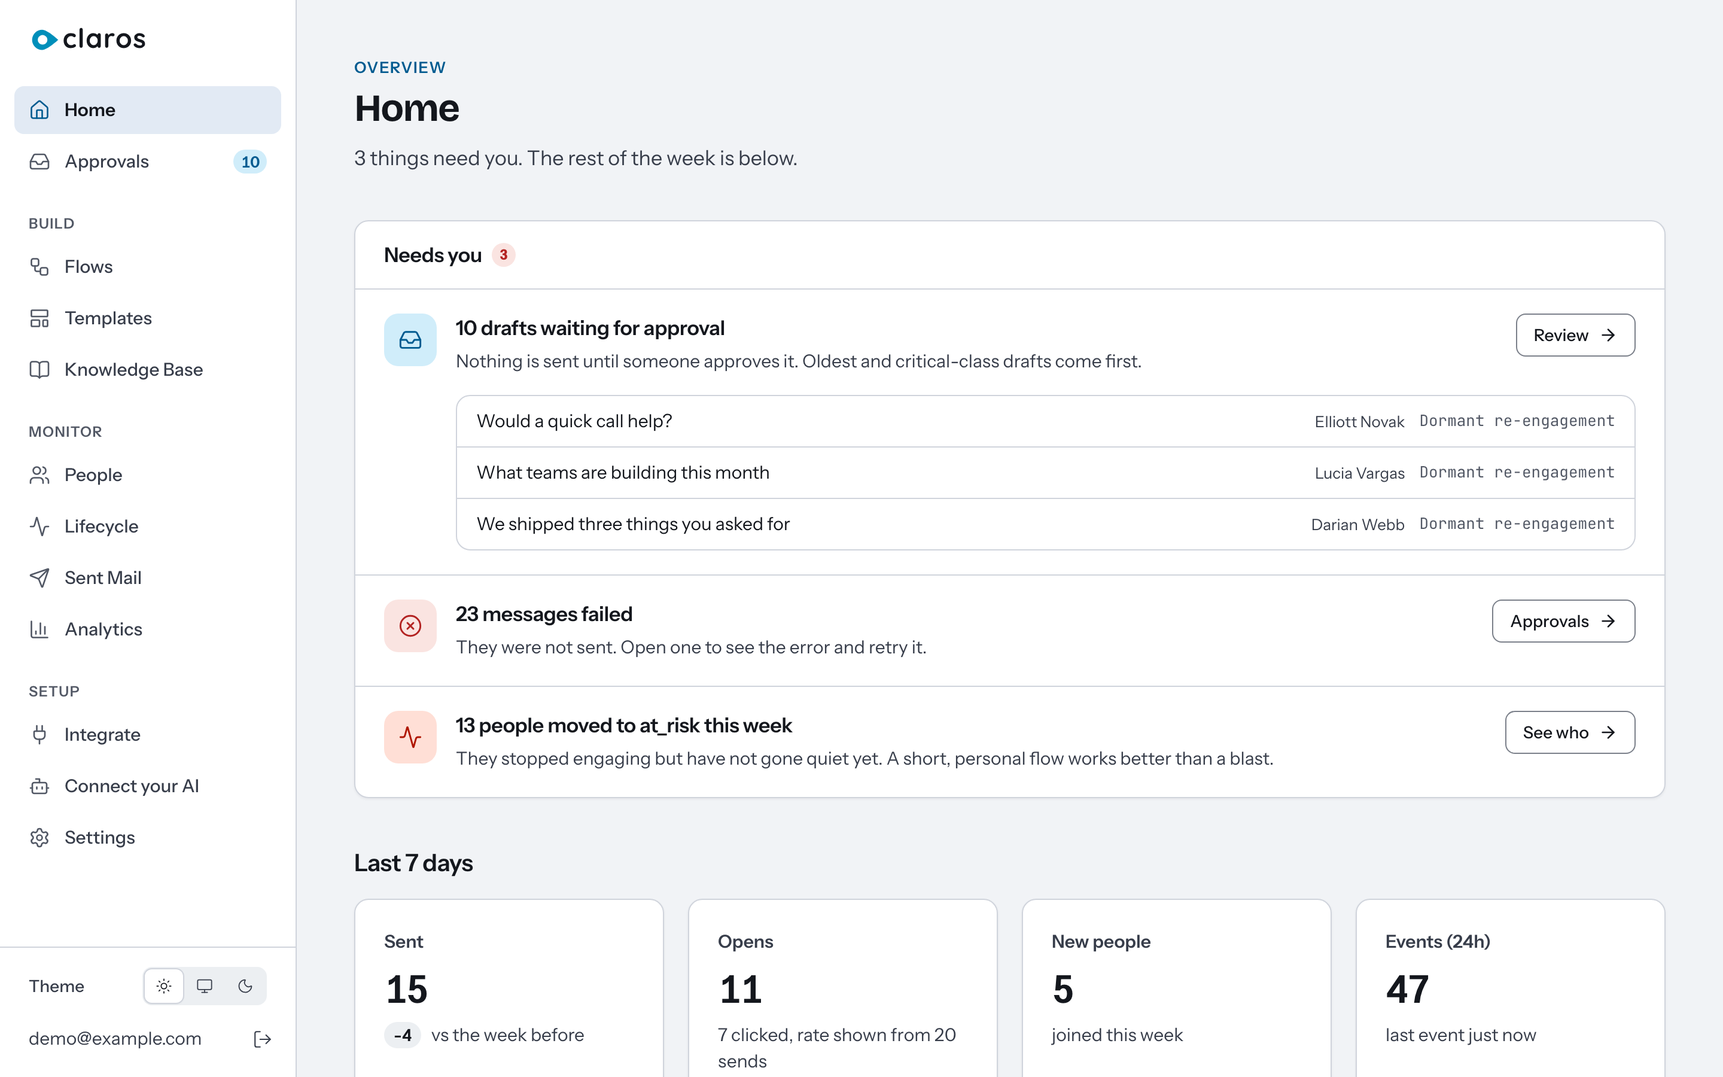
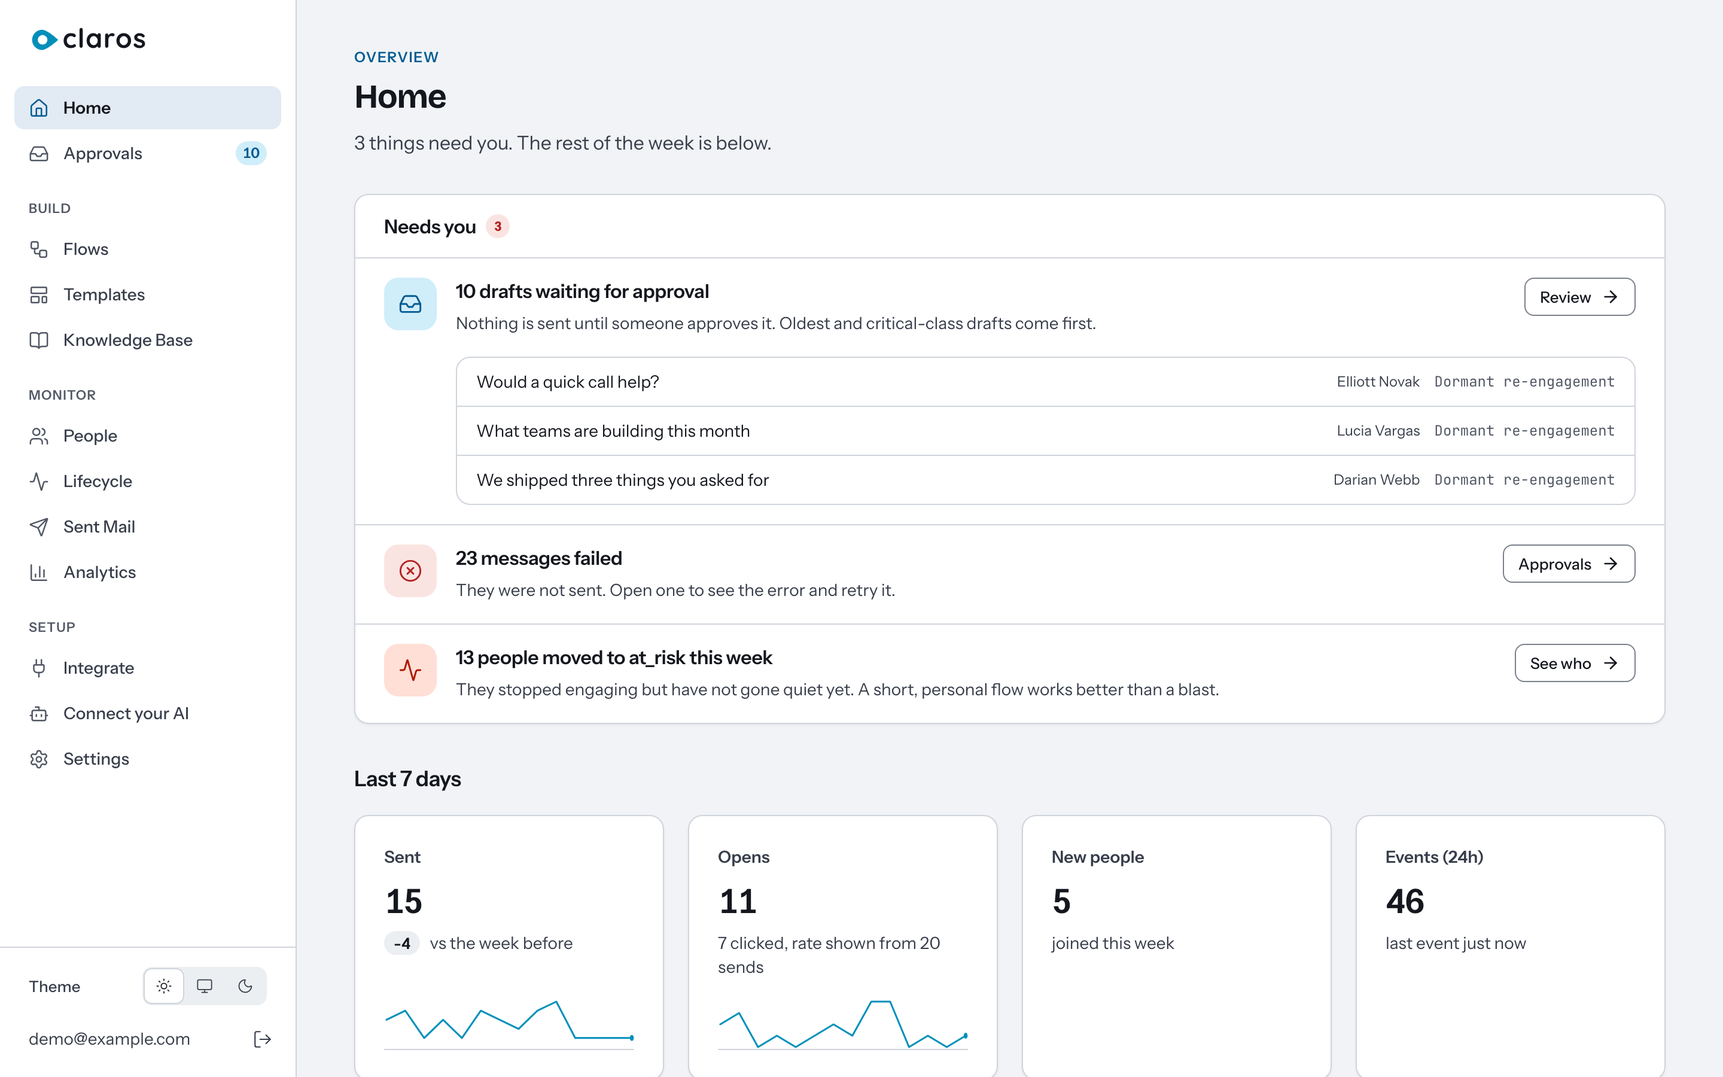
Dashboard: type scale one notch down, tighter rhythm
Body and cells 14/20, page titles 28px, controls 36px, table rows ~44px,
nav items 36px, less space between sections; flow names medium weight.
Only the @theme tokens and a few spacing classes change. BRAND.md,
CHANGELOG, screenshots and social preview follow.

diff --git a/apps/dashboard/src/pages/home/HomeOverview.tsx b/apps/dashboard/src/pages/home/HomeOverview.tsx
@@ -136,7 +136,7 @@ function Panel({
 }) {
   return (
     <section className={cn("rounded-lg border border-border bg-card shadow-card", className)}>
-      <div className="flex items-center justify-between gap-4 border-b border-border px-6 py-4">
+      <div className="flex items-center justify-between gap-4 border-b border-border px-6 py-3.5">
         <CardTitle>{title}</CardTitle>
         {link && <CardLink to={link.to}>{link.label}</CardLink>}
       </div>
@@ -187,7 +187,7 @@ interface AttentionItem {
 function AttentionRow({ item }: { item: AttentionItem }) {
   const Icon = item.icon;
   return (
-    <li className="flex items-start gap-4 px-6 py-5">
+    <li className="flex items-start gap-4 px-6 py-4">
       <span className={cn("flex h-11 w-11 shrink-0 items-center justify-center rounded-lg", TONE[item.tone])}>
         <Icon size={20} strokeWidth={1.75} />
       </span>
@@ -353,7 +353,7 @@ function NeedsYou({ items, isLoading }: { items: AttentionItem[]; isLoading: boo
   }
   if (items.length === 0) {
     return (
-      <div className="flex items-center gap-3 rounded-lg border border-border bg-card shadow-card px-6 py-4">
+      <div className="flex items-center gap-3 rounded-lg border border-border bg-card shadow-card px-6 py-3.5">
         <span className="flex h-7 w-7 shrink-0 items-center justify-center rounded-full bg-success-soft text-success">
           <Check size={15} strokeWidth={2.5} />
         </span>
@@ -366,7 +366,7 @@ function NeedsYou({ items, isLoading }: { items: AttentionItem[]; isLoading: boo
   }
   return (
     <section className="rounded-lg border border-border bg-card shadow-card">
-      <div className="border-b border-border px-6 py-4">
+      <div className="border-b border-border px-6 py-3.5">
         <CardTitle>
           Needs you
           <span className="inline-flex h-5 min-w-5 items-center justify-center rounded-full bg-danger-soft px-1.5 text-micro font-bold tabular-nums text-danger">
@@ -693,7 +693,7 @@ function RecentActivity() {
                 <Link
                   to={item.to}
                   className={cn(
-                    "flex gap-3.5 px-6 py-3.5 transition-colors duration-(--dur-fast) hover:bg-hover",
+                    "flex gap-3.5 px-6 py-3 transition-colors duration-(--dur-fast) hover:bg-hover",
                     item.group ? "items-start" : "items-center",
                   )}
                 >
@@ -794,7 +794,7 @@ function ActiveFlows({ flows }: { flows: Flow[] }) {
                 const waiting = pendingPerFlow.get(flow.id) ?? 0;
                 return (
                   <tr key={flow.id} className="border-b border-border last:border-0 hover:bg-hover">
-                    <td className="px-6 py-3.5">
+                    <td className="px-6 py-3">
                       <Link
                         to={`/flows/${flow.id}/edit`}
                         className="block truncate font-medium text-foreground hover:text-accent-text"
@@ -812,7 +812,7 @@ function ActiveFlows({ flows }: { flows: Flow[] }) {
                     <td className="hidden px-3 py-3.5 text-right text-body tabular-nums text-muted-foreground sm:table-cell">
                       {stats?.opened ?? 0}
                     </td>
-                    <td className="px-6 py-3.5 text-right">
+                    <td className="px-6 py-3 text-right">
                       {waiting > 0 ? (
                         <Link to="/approvals" className="text-body font-semibold tabular-nums text-accent-text">
                           {waiting}
@@ -826,7 +826,7 @@ function ActiveFlows({ flows }: { flows: Flow[] }) {
               })}
             </tbody>
           </table>
-          {others && <p className="border-t border-border px-6 py-3.5 text-small text-muted-foreground">Also {others}.</p>}
+          {others && <p className="border-t border-border px-6 py-3 text-small text-muted-foreground">Also {others}.</p>}
         </>
       )}
     </Panel>
@@ -1115,7 +1115,7 @@ export function HomeOverview({
 
       {setupBanner}
 
-      <div className="space-y-10">
+      <div className="space-y-8">
         <NeedsYou items={items} isLoading={isLoading} />
         <ThisWeek />
         <div className="grid gap-5 lg:grid-cols-3">

diff --git a/apps/dashboard/src/pages/ShellPage.tsx b/apps/dashboard/src/pages/ShellPage.tsx
@@ -164,7 +164,7 @@ export default function ShellPage({ me }: ShellPageProps) {
         {NAV_GROUPS.map((group) => (
           <div
             key={group.items[0]!.path}
-            className={group.heading ? "mt-6 space-y-[3px]" : "space-y-[3px]"}
+            className={group.heading ? "mt-5 space-y-0.5" : "space-y-0.5"}
           >
             {group.heading && (
               <p className="mb-2 px-3 text-micro font-semibold uppercase leading-4 tracking-[0.06em] text-subtle-foreground">
@@ -179,7 +179,7 @@ export default function ShellPage({ me }: ShellPageProps) {
                   <span
                     key={item.path}
                     aria-disabled="true"
-                    className="flex h-10 items-center gap-3 rounded-md px-3 text-body text-subtle-foreground select-none"
+                    className="flex h-9 items-center gap-3 rounded-md px-3 text-body text-subtle-foreground select-none"
                   >
                     <Icon size={18} strokeWidth={1.75} />
                     {item.label}
@@ -195,7 +195,7 @@ export default function ShellPage({ me }: ShellPageProps) {
                   to={item.path}
                   className={({ isActive }) =>
                     [
-                      "group flex h-10 items-center gap-3 rounded-md px-3 text-body transition-colors duration-(--dur-fast) focus-visible:outline-none focus-visible:ring-2 focus-visible:ring-ring",
+                      "group flex h-9 items-center gap-3 rounded-md px-3 text-body transition-colors duration-(--dur-fast) focus-visible:outline-none focus-visible:ring-2 focus-visible:ring-ring",
                       isActive
                         ? "is-active bg-selected font-semibold text-foreground"
                         : "font-medium text-muted-foreground hover:bg-sunken hover:text-foreground",
@@ -203,7 +203,7 @@ export default function ShellPage({ me }: ShellPageProps) {
                   }
                 >
                   <Icon
-                    size={18}
+                    size={17}
                     strokeWidth={1.75}
                     className="shrink-0 text-subtle-foreground group-hover:text-foreground group-[.is-active]:text-accent-text"
                   />
@@ -289,7 +289,7 @@ export default function ShellPage({ me }: ShellPageProps) {
           <BrandLockup markSize={22} />
         </header>
 
-        <main className="flex-1 min-h-0 min-w-0 overflow-x-hidden overflow-y-auto overscroll-contain px-4 py-7 sm:px-8 sm:py-10 lg:px-12 lg:py-12 2xl:px-16 2xl:py-14">
+        <main className="flex-1 min-h-0 min-w-0 overflow-x-hidden overflow-y-auto overscroll-contain px-4 py-7 sm:px-8 sm:py-10 lg:px-12 lg:py-10 2xl:px-16 2xl:py-12">
           <Outlet />
         </main>
       </div>

diff --git a/apps/dashboard/src/index.css b/apps/dashboard/src/index.css
@@ -238,18 +238,18 @@
   /* TYPE SCALE: the one standard for the product (and, one step up at the
    * reading sizes, for claros.org). Components use these names only, never
    * text-[Npx]. Values follow common product-UI practice (Material 3,
-   * Carbon): 15px body on a 22px line, a ~1.07-1.25 step ratio, weights
+   * Carbon, and the 14px body of Stripe and Linear): 14px body on a 20px line, a ~1.07-1.25 step ratio, weights
    * 400 / 500 / 600 (700 only for Bricolage titles). See BRAND.md section 4. */
-  --text-micro: 12px;    --text-micro--line-height: 16px;
-  --text-caption: 13px;  --text-caption--line-height: 18px;
-  --text-small: 14px;    --text-small--line-height: 20px;
-  --text-body: 15px;     --text-body--line-height: 22px;
-  --text-lead: 16px;     --text-lead--line-height: 24px;
-  --text-title: 17px;    --text-title--line-height: 24px;
-  --text-heading: 20px;  --text-heading--line-height: 28px;
-  --text-headline: 24px; --text-headline--line-height: 30px;
-  --text-display: 28px;  --text-display--line-height: 34px;
-  --text-page: 32px;     --text-page--line-height: 38px;
+  --text-micro: 11px;    --text-micro--line-height: 16px;
+  --text-caption: 12px;  --text-caption--line-height: 16px;
+  --text-small: 13px;    --text-small--line-height: 18px;
+  --text-body: 14px;     --text-body--line-height: 20px;
+  --text-lead: 15px;     --text-lead--line-height: 22px;
+  --text-title: 16px;    --text-title--line-height: 22px;
+  --text-heading: 18px;  --text-heading--line-height: 24px;
+  --text-headline: 22px; --text-headline--line-height: 28px;
+  --text-display: 24px;  --text-display--line-height: 30px;
+  --text-page: 28px;     --text-page--line-height: 34px;
 
   --font-sans: "Instrument Sans Variable", system-ui, sans-serif;
   --font-display: "Bricolage Grotesque Variable", "Instrument Sans Variable", system-ui, sans-serif;

diff --git a/apps/dashboard/src/components/ui/table.tsx b/apps/dashboard/src/components/ui/table.tsx
@@ -4,7 +4,7 @@
  * Density rules:
  *   - Header cells are micro labels: 12px, 600, uppercase, tracked out,
  *     muted. They are furniture, not content, so they step back.
- *   - Body cells are 15px on a ~52px row rhythm (py-3.5).
+ *   - Body cells are text-body on a ~44px row rhythm (py-2.5).
  *   - Row separators are 1px --border; no zebra striping. Zebra stripes add
  *     a surface per row and still fail to outperform whitespace plus hover.
  *   - A table standing on the page canvas is framed: a white card with the
@@ -85,7 +85,7 @@ const TableHead = React.forwardRef<
   <th
     ref={ref}
     className={cn(
-      "h-11 px-3 text-left align-middle text-micro font-semibold uppercase tracking-[0.06em] text-muted-foreground [&:has([role=checkbox])]:pr-0",
+      "h-10 px-3 text-left align-middle text-micro font-semibold uppercase tracking-[0.06em] text-muted-foreground [&:has([role=checkbox])]:pr-0",
       className,
     )}
     {...props}
@@ -100,7 +100,7 @@ const TableCell = React.forwardRef<
   <td
     ref={ref}
     className={cn(
-      "px-3 py-3.5 align-middle [&:has([role=checkbox])]:pr-0",
+      "px-3 py-2.5 align-middle [&:has([role=checkbox])]:pr-0",
       className,
     )}
     {...props}

diff --git a/apps/dashboard/src/components/ui/input.tsx b/apps/dashboard/src/components/ui/input.tsx
@@ -23,7 +23,7 @@ const Input = React.forwardRef<
       type={type}
       ref={ref}
       className={cn(
-        "flex h-10 w-full rounded-md border border-input bg-card px-3 text-body text-foreground transition-[border-color,box-shadow] duration-(--dur-fast) placeholder:text-subtle-foreground focus-visible:outline-none focus-visible:ring-2 focus-visible:ring-ring focus-visible:ring-offset-1 focus-visible:ring-offset-background disabled:cursor-not-allowed disabled:border-border disabled:bg-sunken disabled:text-muted-foreground",
+        "flex h-9 w-full rounded-md border border-input bg-card px-3 text-body text-foreground transition-[border-color,box-shadow] duration-(--dur-fast) placeholder:text-subtle-foreground focus-visible:outline-none focus-visible:ring-2 focus-visible:ring-ring focus-visible:ring-offset-1 focus-visible:ring-offset-background disabled:cursor-not-allowed disabled:border-border disabled:bg-sunken disabled:text-muted-foreground",
         className,
       )}
       {...props}

diff --git a/apps/dashboard/src/components/ui/select.tsx b/apps/dashboard/src/components/ui/select.tsx
@@ -27,7 +27,7 @@ const Select = React.forwardRef<
       <select
         ref={ref}
         className={cn(
-          "flex h-10 w-full appearance-none rounded-md border border-input bg-card pl-3 pr-9 text-body text-foreground transition-[border-color,box-shadow] duration-(--dur-fast) focus-visible:outline-none focus-visible:ring-2 focus-visible:ring-ring focus-visible:ring-offset-1 focus-visible:ring-offset-background disabled:cursor-not-allowed disabled:border-border disabled:bg-sunken disabled:text-muted-foreground",
+          "flex h-9 w-full appearance-none rounded-md border border-input bg-card pl-3 pr-9 text-body text-foreground transition-[border-color,box-shadow] duration-(--dur-fast) focus-visible:outline-none focus-visible:ring-2 focus-visible:ring-ring focus-visible:ring-offset-1 focus-visible:ring-offset-background disabled:cursor-not-allowed disabled:border-border disabled:bg-sunken disabled:text-muted-foreground",
           className,
         )}
         {...props}

diff --git a/apps/dashboard/src/components/product-switcher.tsx b/apps/dashboard/src/components/product-switcher.tsx
@@ -203,7 +203,7 @@ export function ProductSwitcher({ currentProductId }: { currentProductId: string
         className={cn(
           // Outer edge on the nav items' edge (wrapper px-3); 1px border + 11px
           // padding puts the dot on the 24px axis of the mark and nav icons.
-          "flex h-11 w-full items-center gap-2.5 rounded-lg border bg-card px-[11px] text-left shadow-card transition-colors duration-(--dur-fast)",
+          "flex h-10 w-full items-center gap-2.5 rounded-lg border bg-card px-[11px] text-left shadow-card transition-colors duration-(--dur-fast)",
           "focus-visible:outline-none focus-visible:ring-2 focus-visible:ring-ring focus-visible:ring-offset-2 focus-visible:ring-offset-background",
           open ? "border-border-strong" : "border-border hover:border-border-strong",
         )}

diff --git a/apps/dashboard/src/pages/settings/SettingsLayout.tsx b/apps/dashboard/src/pages/settings/SettingsLayout.tsx
@@ -119,7 +119,7 @@ export default function SettingsLayout() {
                       to={item.to}
                       className={({ isActive }) =>
                         cn(
-                          "flex h-10 items-center gap-3 whitespace-nowrap rounded-md px-3 text-body transition-colors duration-(--dur-fast) focus-visible:outline-none focus-visible:ring-2 focus-visible:ring-ring",
+                          "flex h-9 items-center gap-3 whitespace-nowrap rounded-md px-3 text-body transition-colors duration-(--dur-fast) focus-visible:outline-none focus-visible:ring-2 focus-visible:ring-ring",
                           isActive
                             ? "bg-selected font-semibold text-foreground"
                             : "font-medium text-muted-foreground hover:bg-card hover:text-foreground",

diff --git a/apps/dashboard/src/components/page-header.tsx b/apps/dashboard/src/components/page-header.tsx
@@ -21,7 +21,7 @@ interface PageHeaderProps {
 
 export function PageHeader({ eyebrow, title, subtitle, actions }: PageHeaderProps) {
   return (
-    <div className="mb-10 flex flex-col gap-4 sm:flex-row sm:items-end sm:justify-between sm:gap-6">
+    <div className="mb-8 flex flex-col gap-4 sm:flex-row sm:items-end sm:justify-between sm:gap-6">
       <div className="min-w-0">
         {eyebrow && (
           <p className="text-caption font-semibold uppercase leading-4 tracking-[0.07em] text-accent-text">

diff --git a/apps/dashboard/src/pages/FlowsPage.tsx b/apps/dashboard/src/pages/FlowsPage.tsx
@@ -283,7 +283,7 @@ export default function FlowsPage() {
                   className="cursor-pointer"
                   onClick={() => navigate(`/flows/${flow.id}/edit`)}
                 >
-                  <TableCell className="min-w-[15rem] font-semibold text-foreground">
+                  <TableCell className="min-w-[15rem] font-medium text-foreground">
                     <Link
                       to={`/flows/${flow.id}/edit`}
                       className="text-foreground"

diff --git a/apps/dashboard/src/components/ui/button.tsx b/apps/dashboard/src/components/ui/button.tsx
@@ -36,10 +36,10 @@ const buttonVariants = cva(
         link: "text-accent-text underline-offset-4 hover:underline disabled:text-muted-foreground disabled:no-underline",
       },
       size: {
-        default: "h-10 px-4",
-        sm: "h-9 px-3.5 text-small",
-        lg: "h-11 px-6",
-        icon: "h-10 w-10",
+        default: "h-9 px-4",
+        sm: "h-8 px-3 text-small",
+        lg: "h-10 px-6",
+        icon: "h-9 w-9",
       },
     },
     defaultVariants: {

diff --git a/docs/BRAND.md b/docs/BRAND.md
@@ -164,27 +164,28 @@ One named scale, defined once as `@theme --text-*` tokens in
 `apps/dashboard/src/index.css` and used by name everywhere (`text-body`,
 `text-title`, ...). Components never write `text-[Npx]` or pixel
 `leading-[...]`: a size change is made here and nowhere else. The values
-follow common product-UI practice (Material 3, IBM Carbon): a 15px body on
-a 22px line, steps of roughly 1.07 to 1.25, three weights (400 body, 500
+follow common product-UI practice (Material 3, IBM Carbon, the 14px body of
+Stripe and Linear): a 14px body on a 20px line, steps of roughly 1.07 to 1.25, three weights (400 body, 500
 emphasis and nav, 600 titles; 700 only for Bricolage). claros.org uses the
 same names one step up at reading sizes (section 15).
 
 | Token | Size / line | Typical weight | Use |
 |---|---|---|---|
-| `text-micro` | 12 / 16 | 600, +0.06em, uppercase | table headers, nav group labels, eyebrows |
-| `text-caption` | 13 / 18 | 400 | timestamps, hints, footnotes, small chips |
-| `text-small` | 14 / 20 | 400/500 | secondary lines, badges, mono data, small buttons |
-| `text-body` | 15 / 22 | 400 | default UI text, table cells, nav, inputs, buttons |
-| `text-lead` | 16 / 24 | 400/600 | page subtitles, list item titles, empty-state text |
-| `text-title` | 17 / 24 | 600, -0.01em | card titles |
-| `text-heading` | 20 / 28 | 600, -0.015em | headings between card groups, draft subjects |
-| `text-headline` | 24 / 30 | 600/700 | large numbers inside panels |
-| `text-display` | 28 / 34 | Bricolage 700, -0.02em | record page titles (person, flow, entry) |
-| `text-page` | 32 / 38 | Bricolage 700, -0.03em | the page title (PageHeader), metrics in Instrument 600 tabular |
+| `text-micro` | 11 / 16 | 600, +0.06em, uppercase | table headers, nav group labels, eyebrows |
+| `text-caption` | 12 / 16 | 400 | timestamps, hints, footnotes, small chips |
+| `text-small` | 13 / 18 | 400/500 | secondary lines, badges, mono data, small buttons |
+| `text-body` | 14 / 20 | 400 | default UI text, table cells, nav, inputs, buttons |
+| `text-lead` | 15 / 22 | 400/600 | page subtitles, list item titles, empty-state text |
+| `text-title` | 16 / 22 | 600, -0.01em | card titles |
+| `text-heading` | 18 / 24 | 600, -0.015em | headings between card groups, draft subjects |
+| `text-headline` | 22 / 28 | 600/700 | large numbers inside panels |
+| `text-display` | 24 / 30 | Bricolage 700, -0.02em | record page titles (person, flow, entry) |
+| `text-page` | 28 / 34 | Bricolage 700, -0.03em | the page title (PageHeader), metrics in Instrument 600 tabular |
 
 Body text is weight 400 with `-webkit-font-smoothing: antialiased`. A pass
 in 2026-11 tried 450 without antialiasing and 16px cells; it read as bold
-and oversized and was reverted. Readability comes from color
+and oversized and was reverted, and 15px still read a notch large, so the
+scale settled on 14px. Controls are 36px, table rows ~44px, nav items 36px. Readability comes from color
 (`--fg-muted` 0.36) and surfaces, not from weight.
 
 Rules:
@@ -284,7 +285,7 @@ both canvases (measured below).
 
 ## 9. Data density
 
-- Tables: `text-body` cells, ~52px row rhythm, 12px micro-label headers, 1px
+- Tables: `text-body` cells, ~44px row rhythm, `text-micro` headers, 1px
   `--border` separators, `--bg-hover` row hover. A table standing on the
   canvas is framed (white card, edge, card shadow); a table inside a card
   passes `framed={false}`. No zebra striping (zebra adds a surface per row
@@ -317,11 +318,11 @@ pairs added to `scripts/contrast.mjs`.
   `outline` (border-strong boundary), `secondary` (raised surface with
   border), `ghost` (quiet chrome actions like Sign out), `destructive`
   (`--danger-fill` with white text), `link` (accent text). Sizes `sm`
-  (36px, 14px text), `default` (40px, 15px), `lg` (44px), `icon` (40px). Disabled state is a solid
+  (32px, `text-small`), `default` (36px, `text-body`), `lg` (40px), `icon` (36px). Disabled state is a solid
   `--bg-sunken` fill with muted text: never opacity. The old disabled style
   (accent at 50% opacity) rendered as a muddy olive and failed AA; that is
   why this rule exists.
-- **Input / Select / Textarea**: 40px fields at 15px (textarea grows),
+- **Input / Select / Textarea**: 36px fields at `text-body` (textarea grows),
   white `--bg-raised` fill (never the grey canvas, which reads as
   disabled), `--border-strong` boundary, focus ring per section 8. Select is a
   styled native element: no custom listbox. Placeholders are
@@ -427,7 +428,7 @@ Usage:
   comparable product puts it. (This replaces an earlier version of this
   rule that prescribed a 64px header with a right-aligned cluster; the
   header did no work proportional to its cost.)
-- Nav items: 40px tall, `text-body` at weight 500, 18px icons in `--fg-subtle`,
+- Nav items: 36px tall, `text-body` at weight 500, 17px icons in `--fg-subtle`,
   8px radius. Active item: the `--selected` fill (neutral slate-blue tint,
   not cyan) with `--fg` text at weight 600 and the icon in accent-text.
   Groups after the first carry a 12px micro label (Build, Monitor, Setup)
@@ -606,14 +607,14 @@ scanned:
 | Token | Size | Use |
 |---|---|---|
 | `--fs-micro` | 12px (0.75rem) | eyebrows, table headers |
-| `--fs-caption` | 14px (0.875rem) | captions, footnotes, code in prose |
-| `--fs-small` | 15px (0.9375rem) | secondary copy, nav, buttons |
-| `--fs-body` | 17px (1.0625rem) | body copy |
-| `--fs-lead` | 20px (1.25rem) | lead paragraphs, card titles |
-| `--fs-heading` | 24px (1.5rem) | sub-section headings |
-| `--fs-headline` | 32px (2rem) | page titles of inner pages |
-| `--fs-display` | 40px (2.5rem) | section titles |
-| `--fs-page` | 56px (3.5rem) | the landing hero, once |
+| `--fs-caption` | 13px (0.8125rem) | captions, footnotes, code in prose |
+| `--fs-small` | 14px (0.875rem) | secondary copy, nav, buttons |
+| `--fs-body` | 16px (1rem) | body copy |
+| `--fs-lead` | 18px (1.125rem) | lead paragraphs, card titles |
+| `--fs-heading` | 22px (1.375rem) | sub-section headings |
+| `--fs-headline` | 28px (1.75rem) | page titles of inner pages |
+| `--fs-display` | 36px (2.25rem) | section titles |
+| `--fs-page` | 48px (3rem) | the landing hero, once |
 
 Body weight 400 with antialiasing, as in the product. Site CSS uses the
 `--fs-*` names only, never a literal font size.
